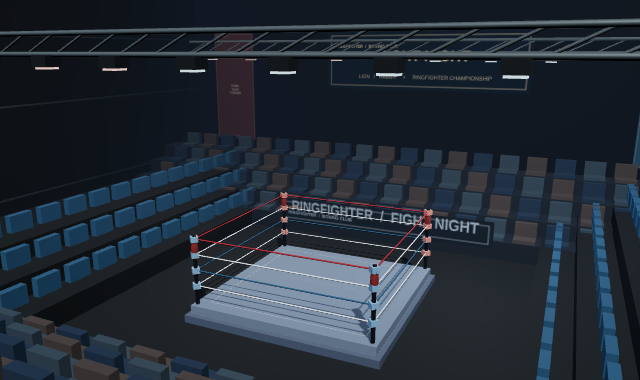
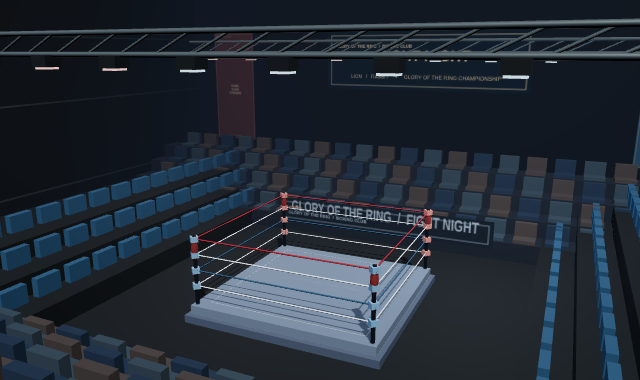
Refresh actual arena preview renders for the public title

diff --git a/README.md b/README.md
@@ -1,4 +1,4 @@
-# RingFighter — 3D Boxing
+# Glory of the Ring — 3D Boxing
 
 Staggered guards, larger species-specific skipping paws, independent ring footwork,
 12 AI tactical phrases and 44 training presets.
